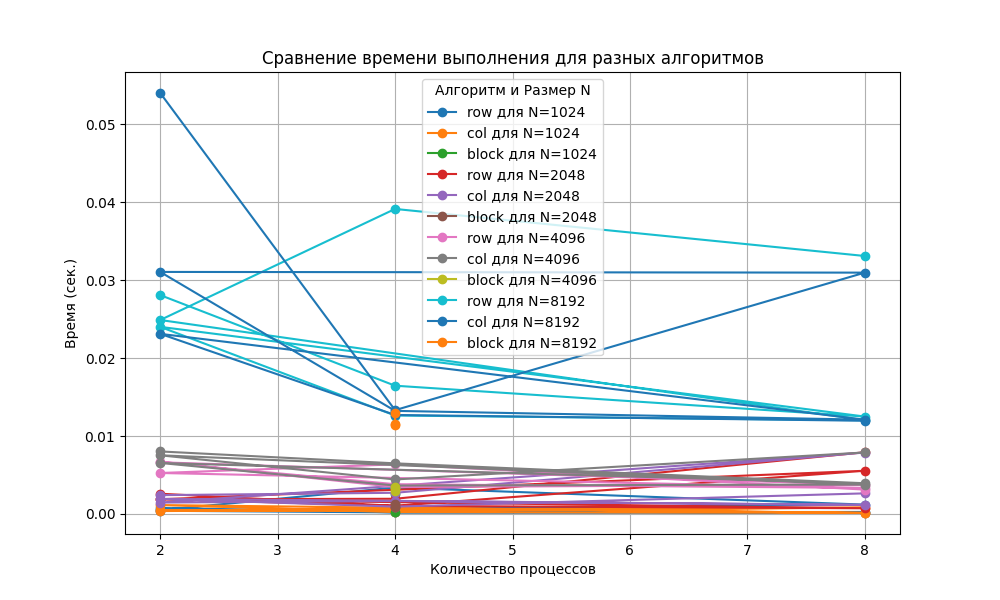
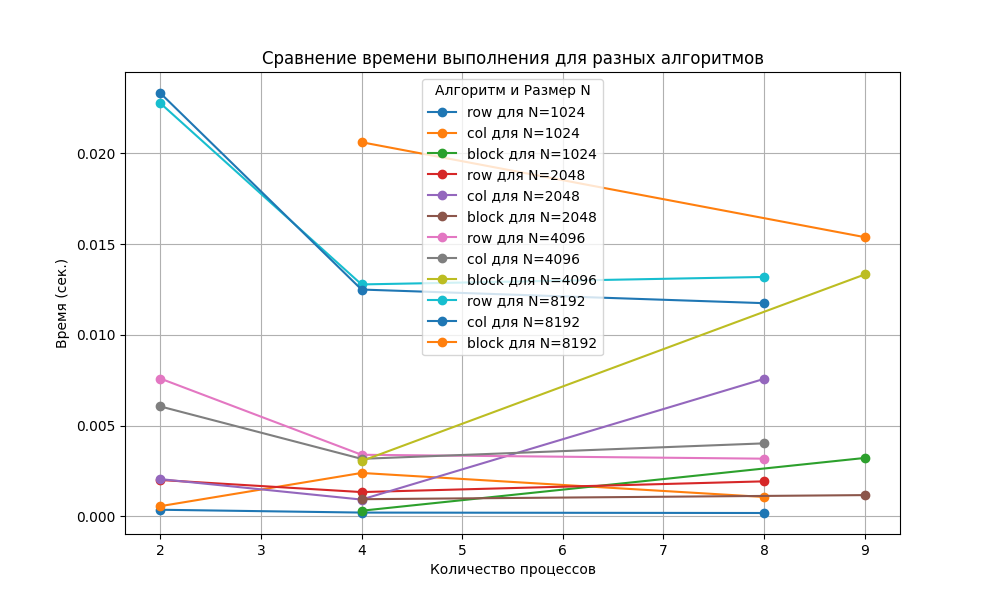
feat: add new graphics

diff --git a/src/task3/draw_graphics.py b/src/task3/draw_graphics.py
@@ -1,7 +1,7 @@
 import pandas as pd
 import matplotlib.pyplot as plt
 
-df = pd.read_csv('cannon_results.csv')
+df = pd.read_csv('results.csv')
 
 df['Эксперимент'] = df['Эксперимент'].astype(str)
 
